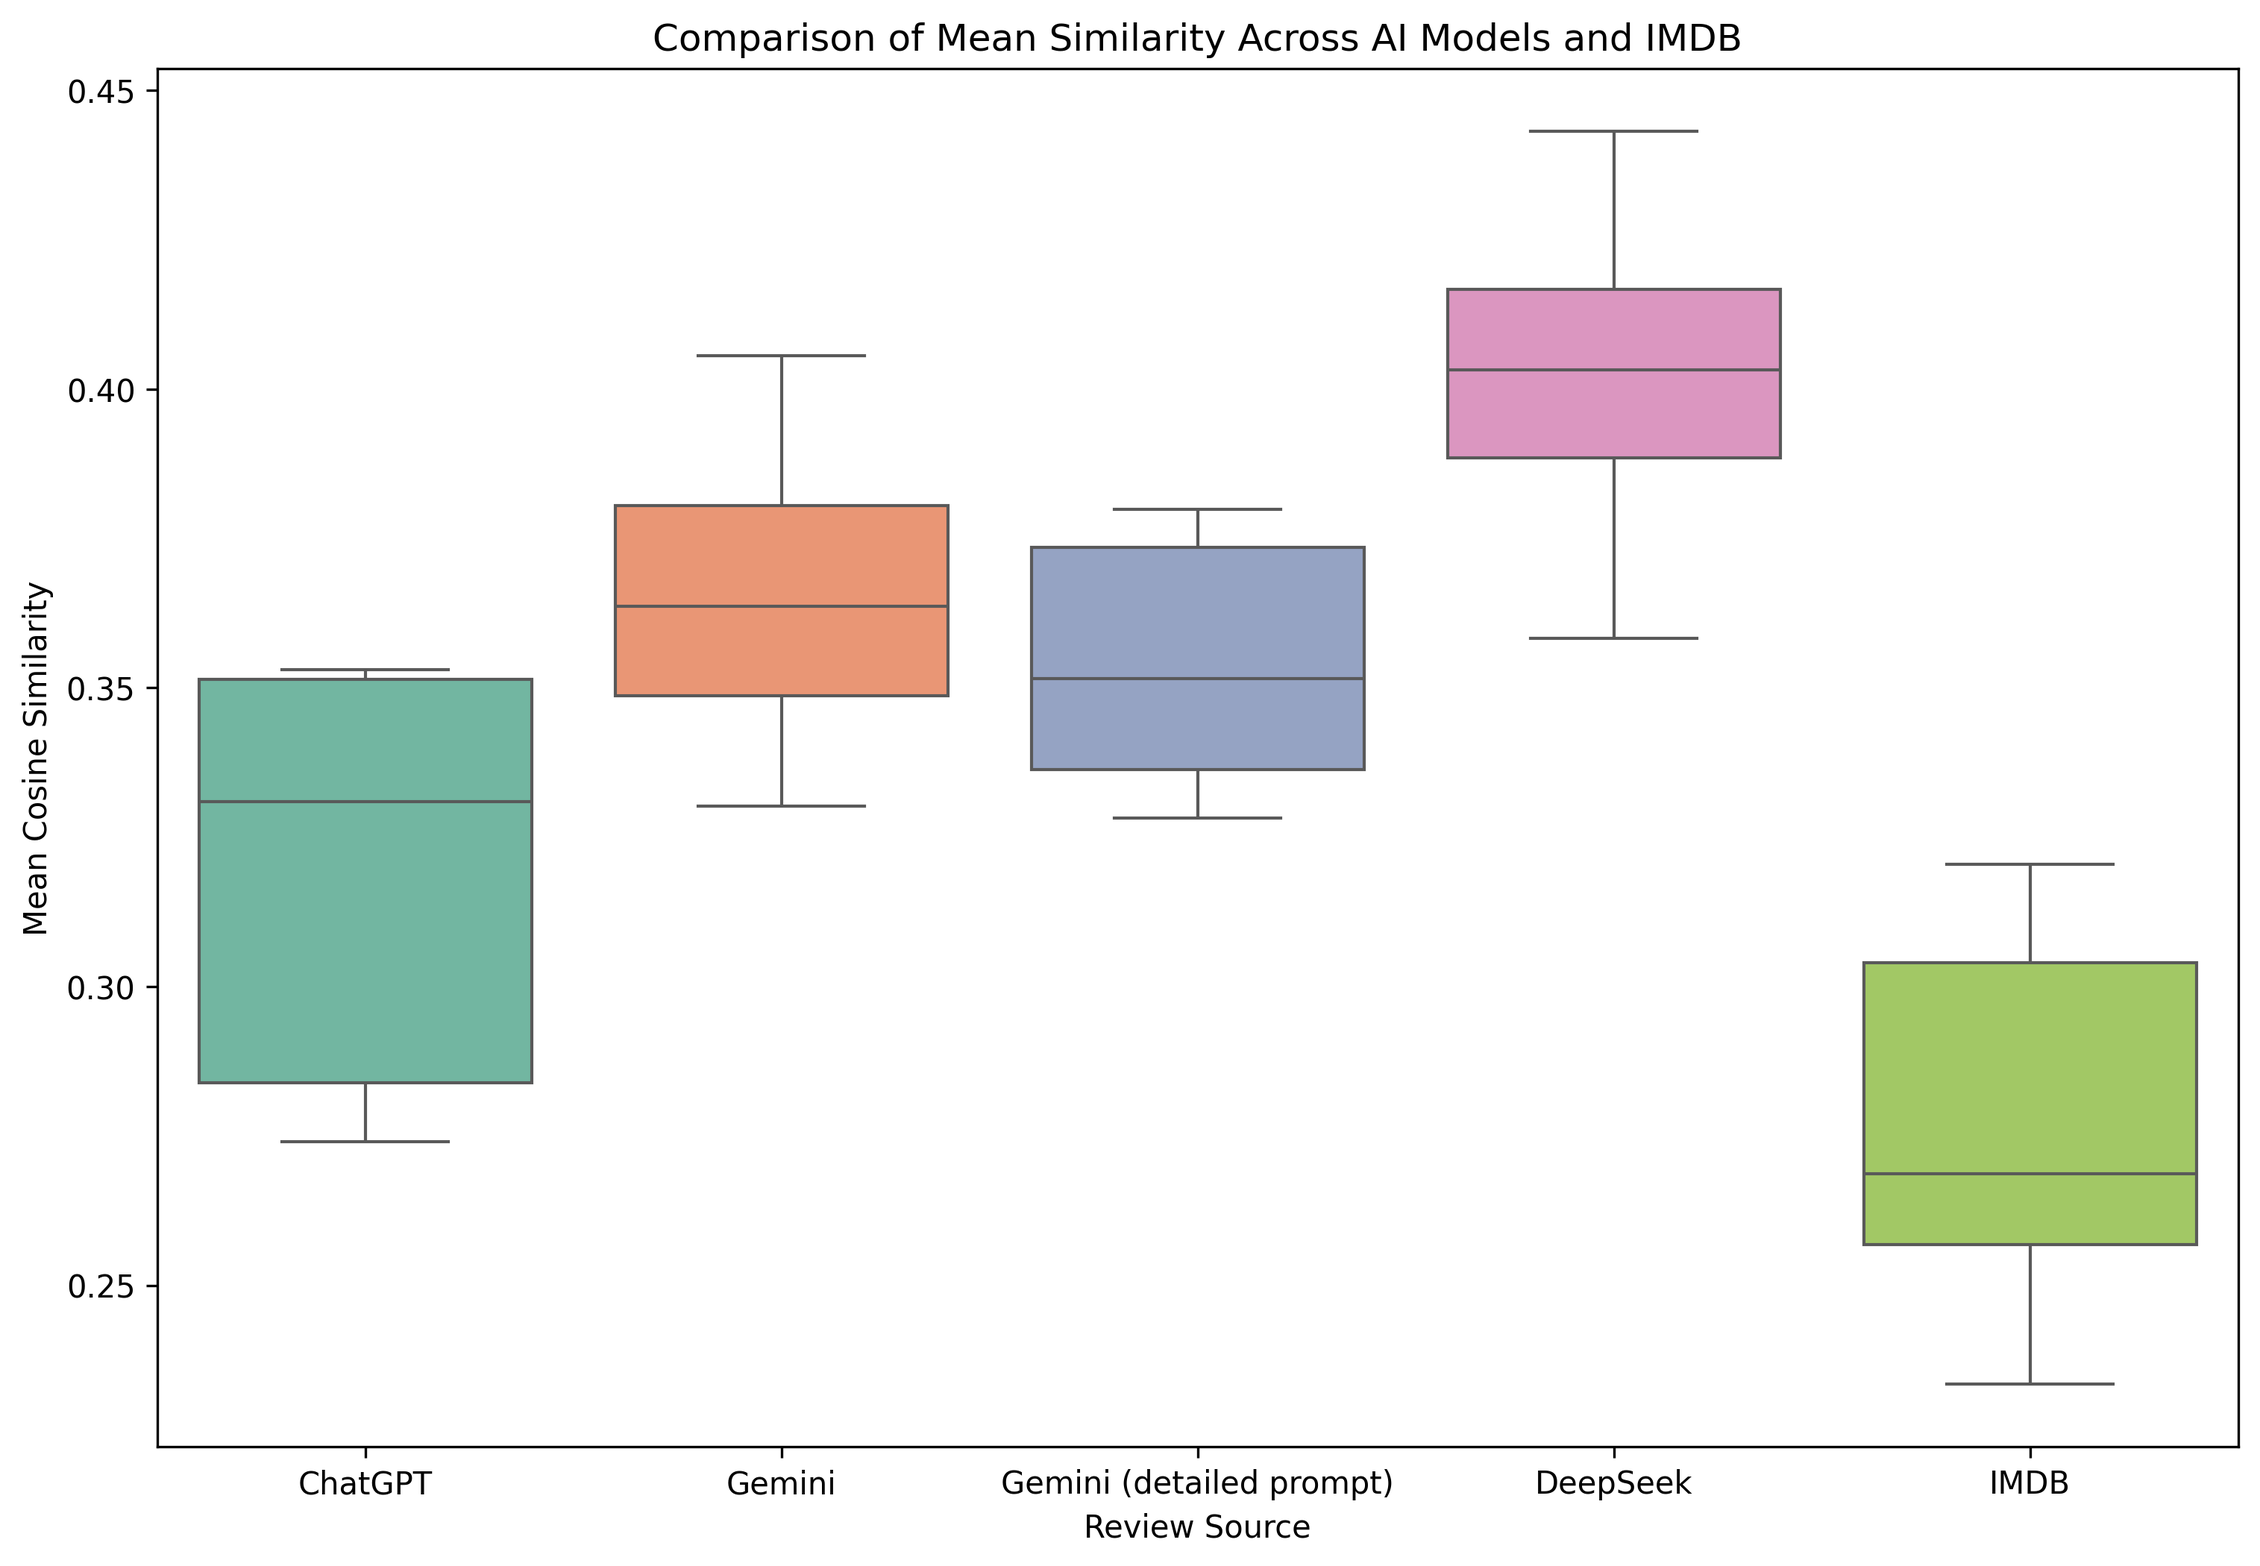
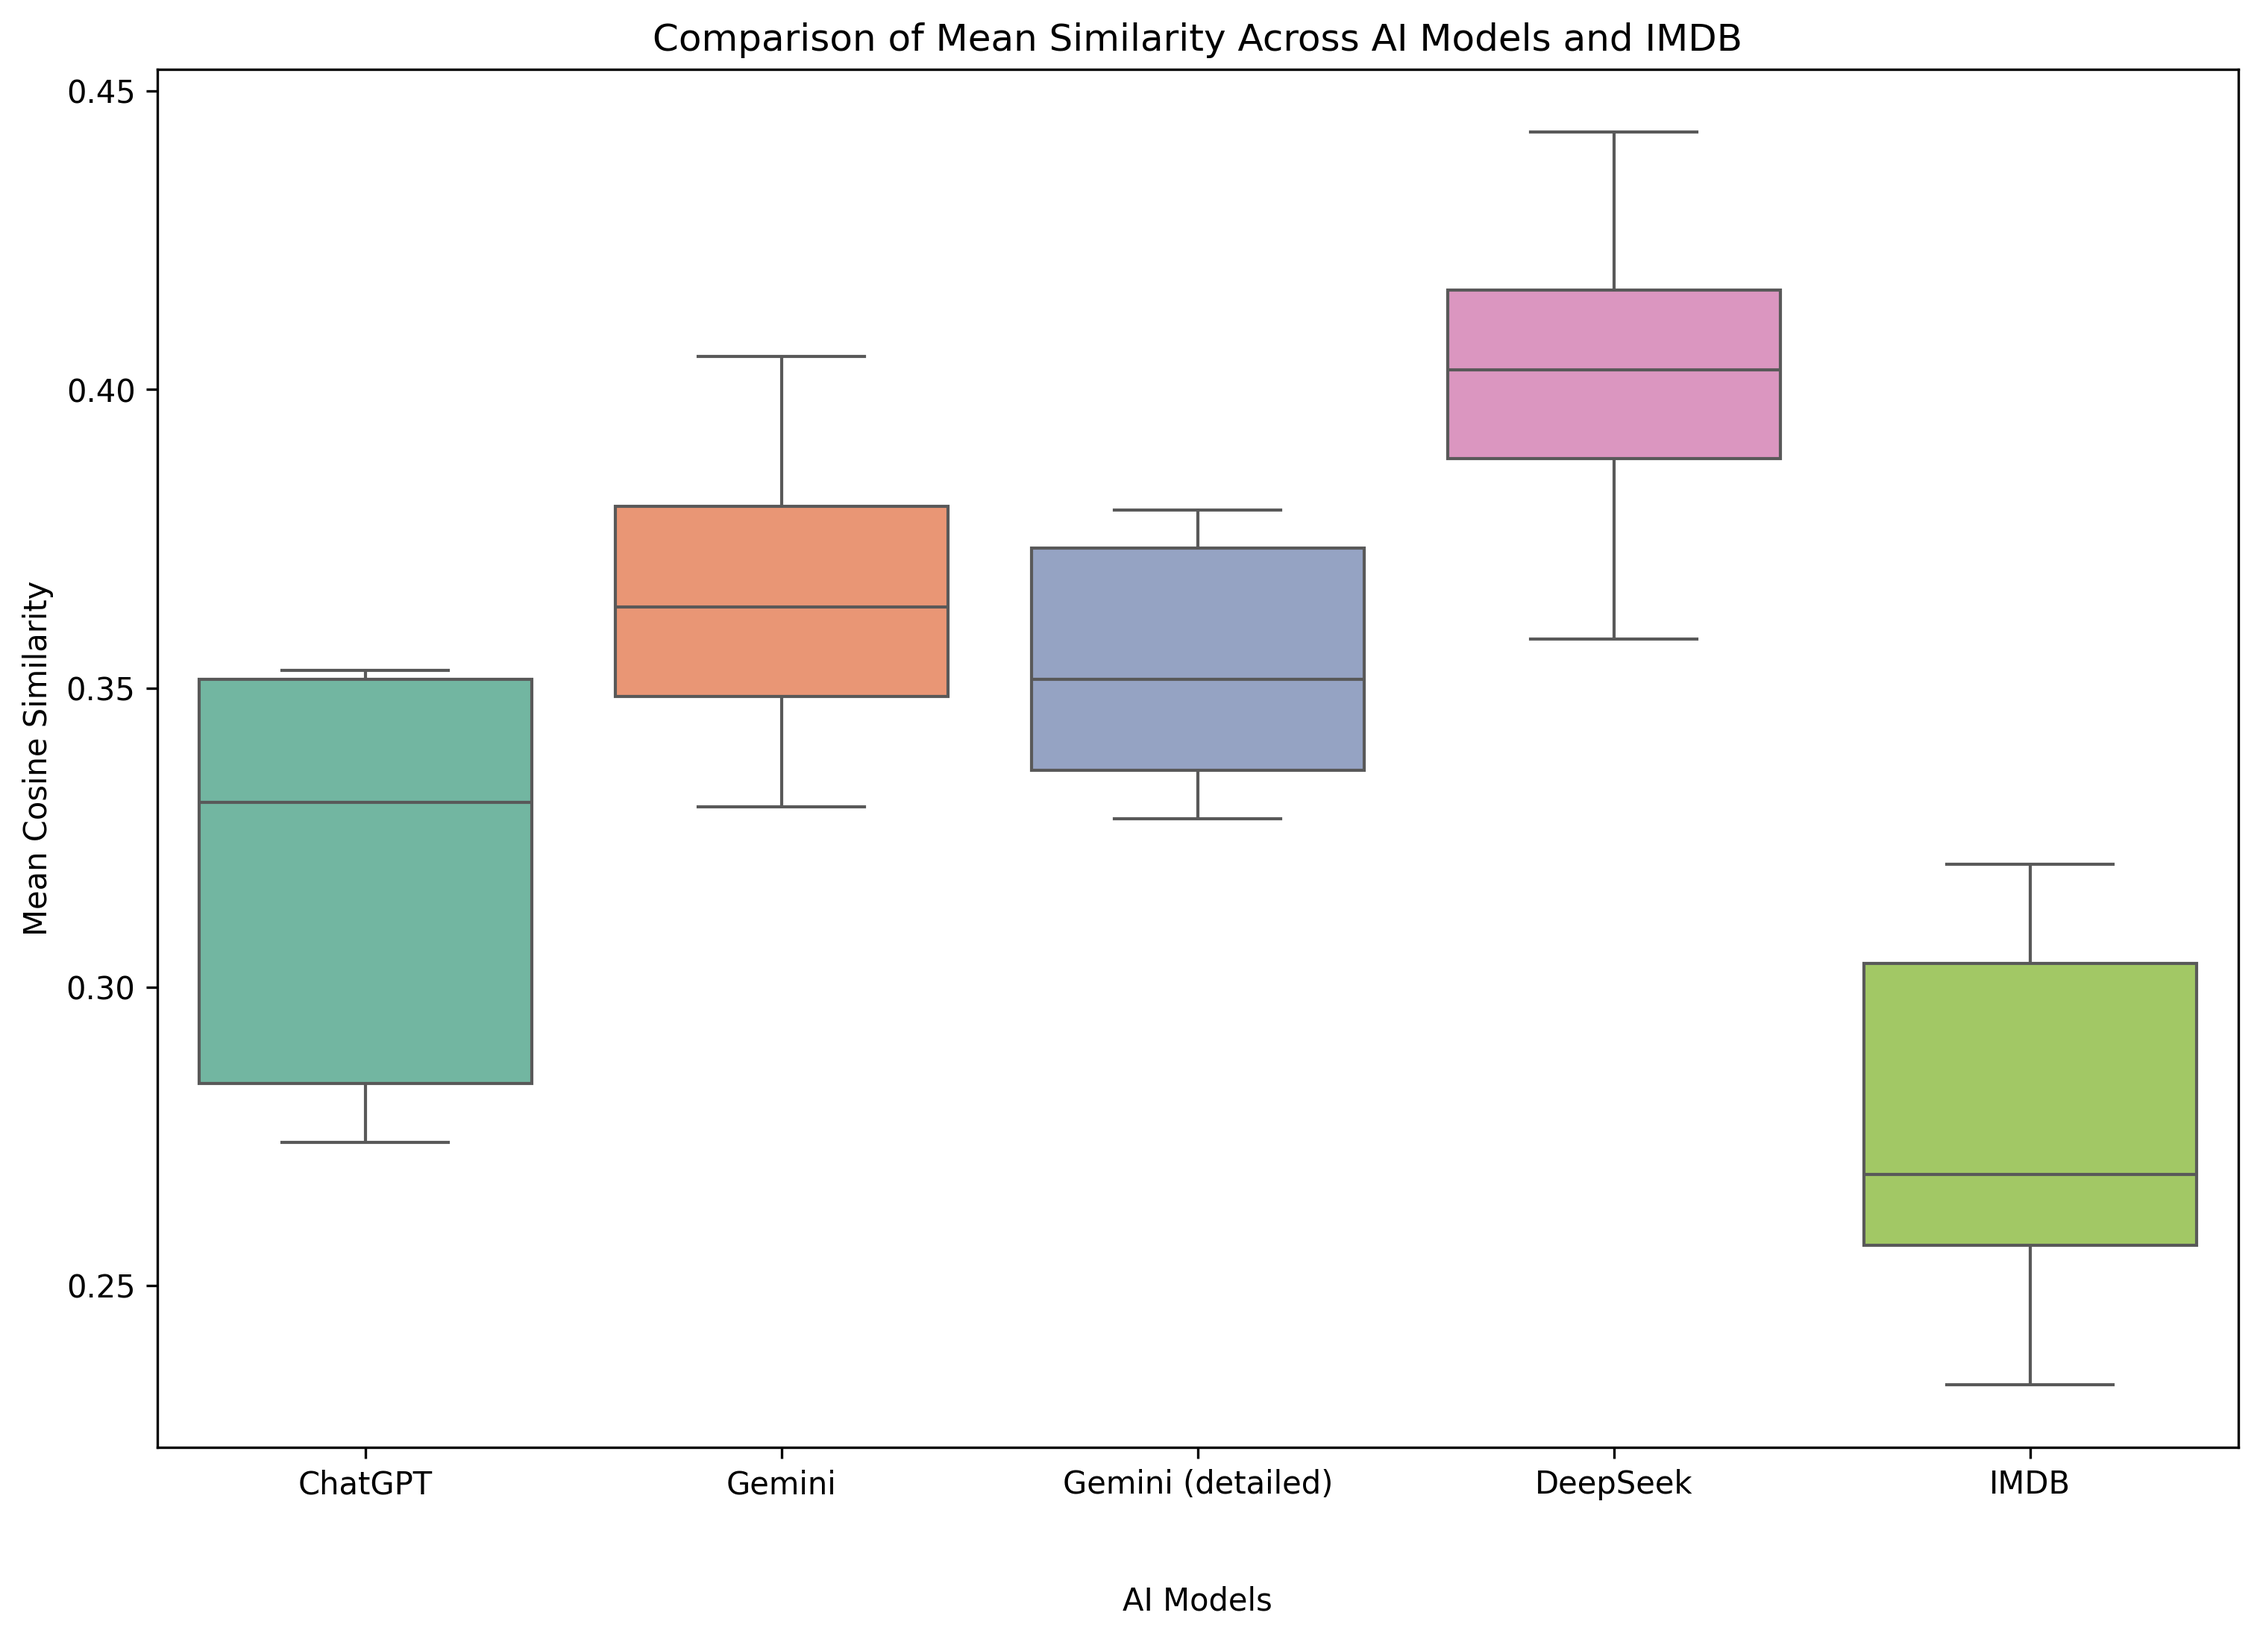
fix label names

diff --git a/visualization/cosine_similarity_overall.py b/visualization/cosine_similarity_overall.py
@@ -10,7 +10,7 @@ import seaborn as sns
 files = {
     "ChatGPT": "../cosine_similarity_and_other_tests/cosine_similarity_results_chatgpt.csv",
     "Gemini": "../cosine_similarity_and_other_tests/cosine_similarity_results_gemini.csv",
-    "Gemini (detailed prompt)" : "../cosine_similarity_and_other_tests/cosine_similarity_results_gemini_detailed_context.csv",
+    "Gemini (detailed)" : "../cosine_similarity_and_other_tests/cosine_similarity_results_gemini_detailed_context.csv",
     "DeepSeek": "../cosine_similarity_and_other_tests/cosine_similarity_results_deepseek.csv",
     "IMDB": "../cosine_similarity_and_other_tests/within_imdb_similarity_results.csv",
 }
@@ -46,7 +46,7 @@ plt.figure(figsize=(12, 8))
 sns.boxplot(data=df_all, x="Source", y="MeanSimilarity", palette="Set2")
 plt.title("Comparison of Mean Similarity Across AI Models and IMDB")
 plt.ylabel("Mean Cosine Similarity")
-plt.xlabel("Review Source")
+plt.xlabel("\n\nAI Models")
 #plt.xticks(rotation=10)
 # save fig
 plt.savefig("mean_similarity_comparison.png", dpi=300, bbox_inches="tight")
